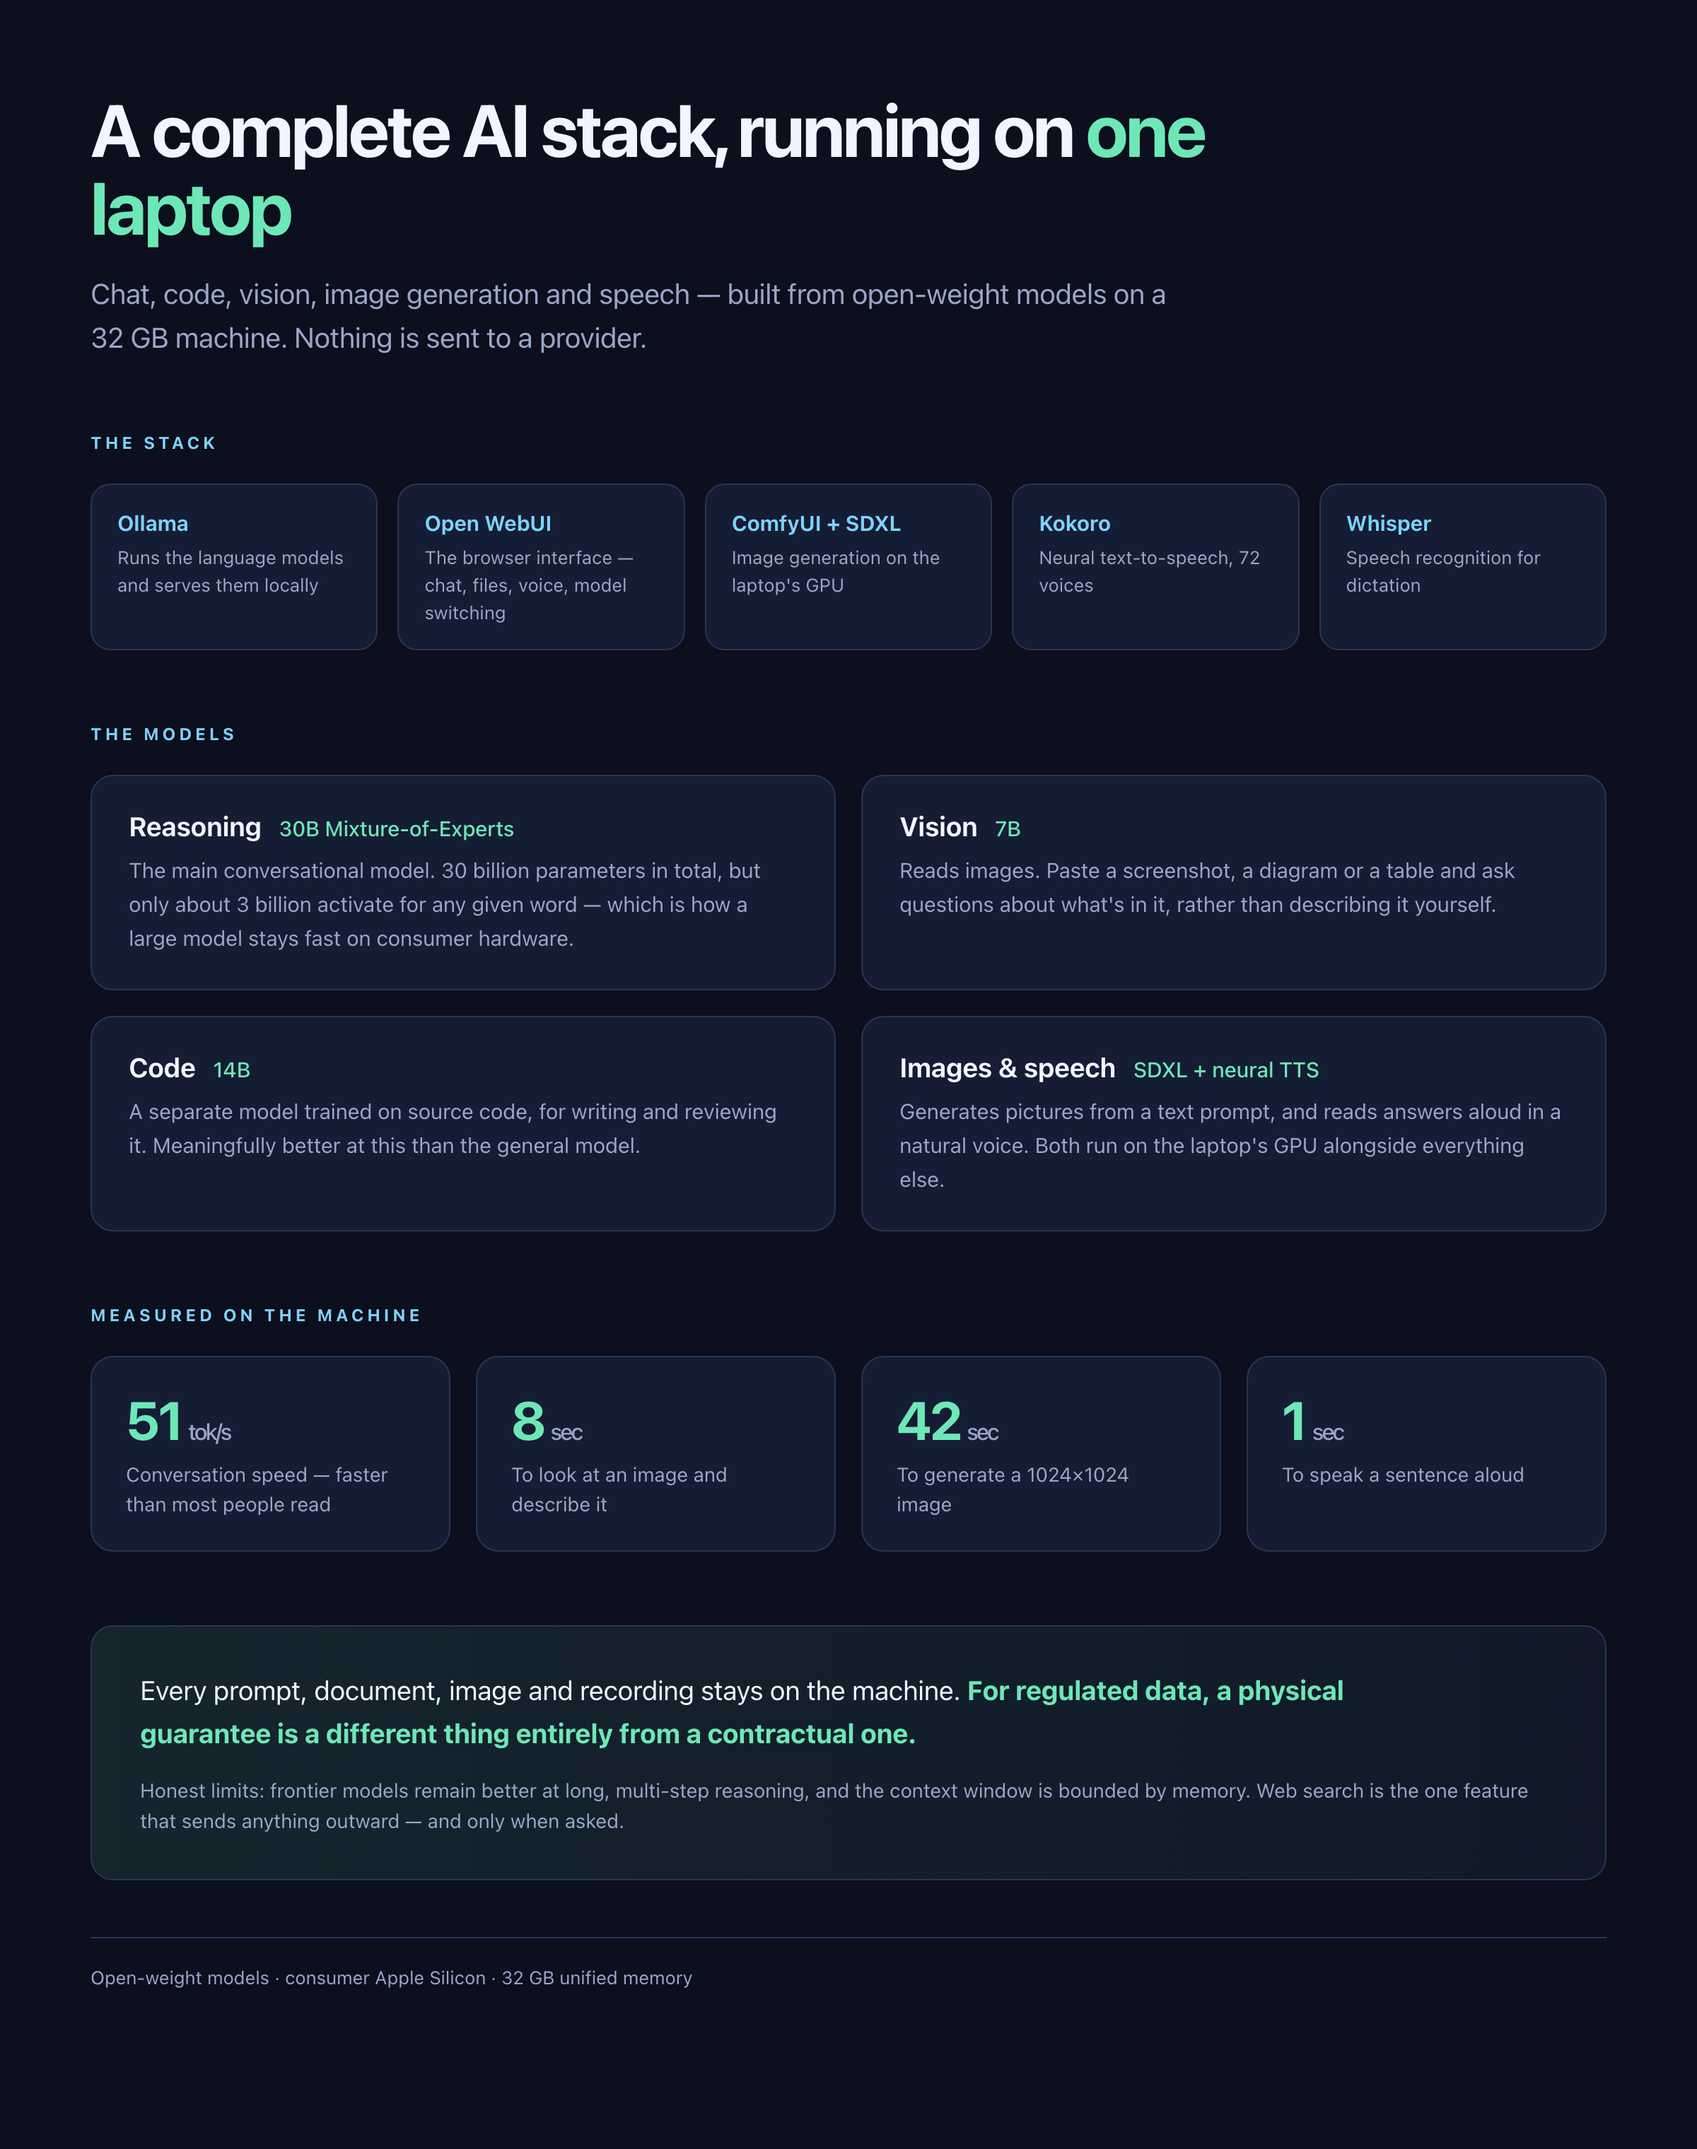
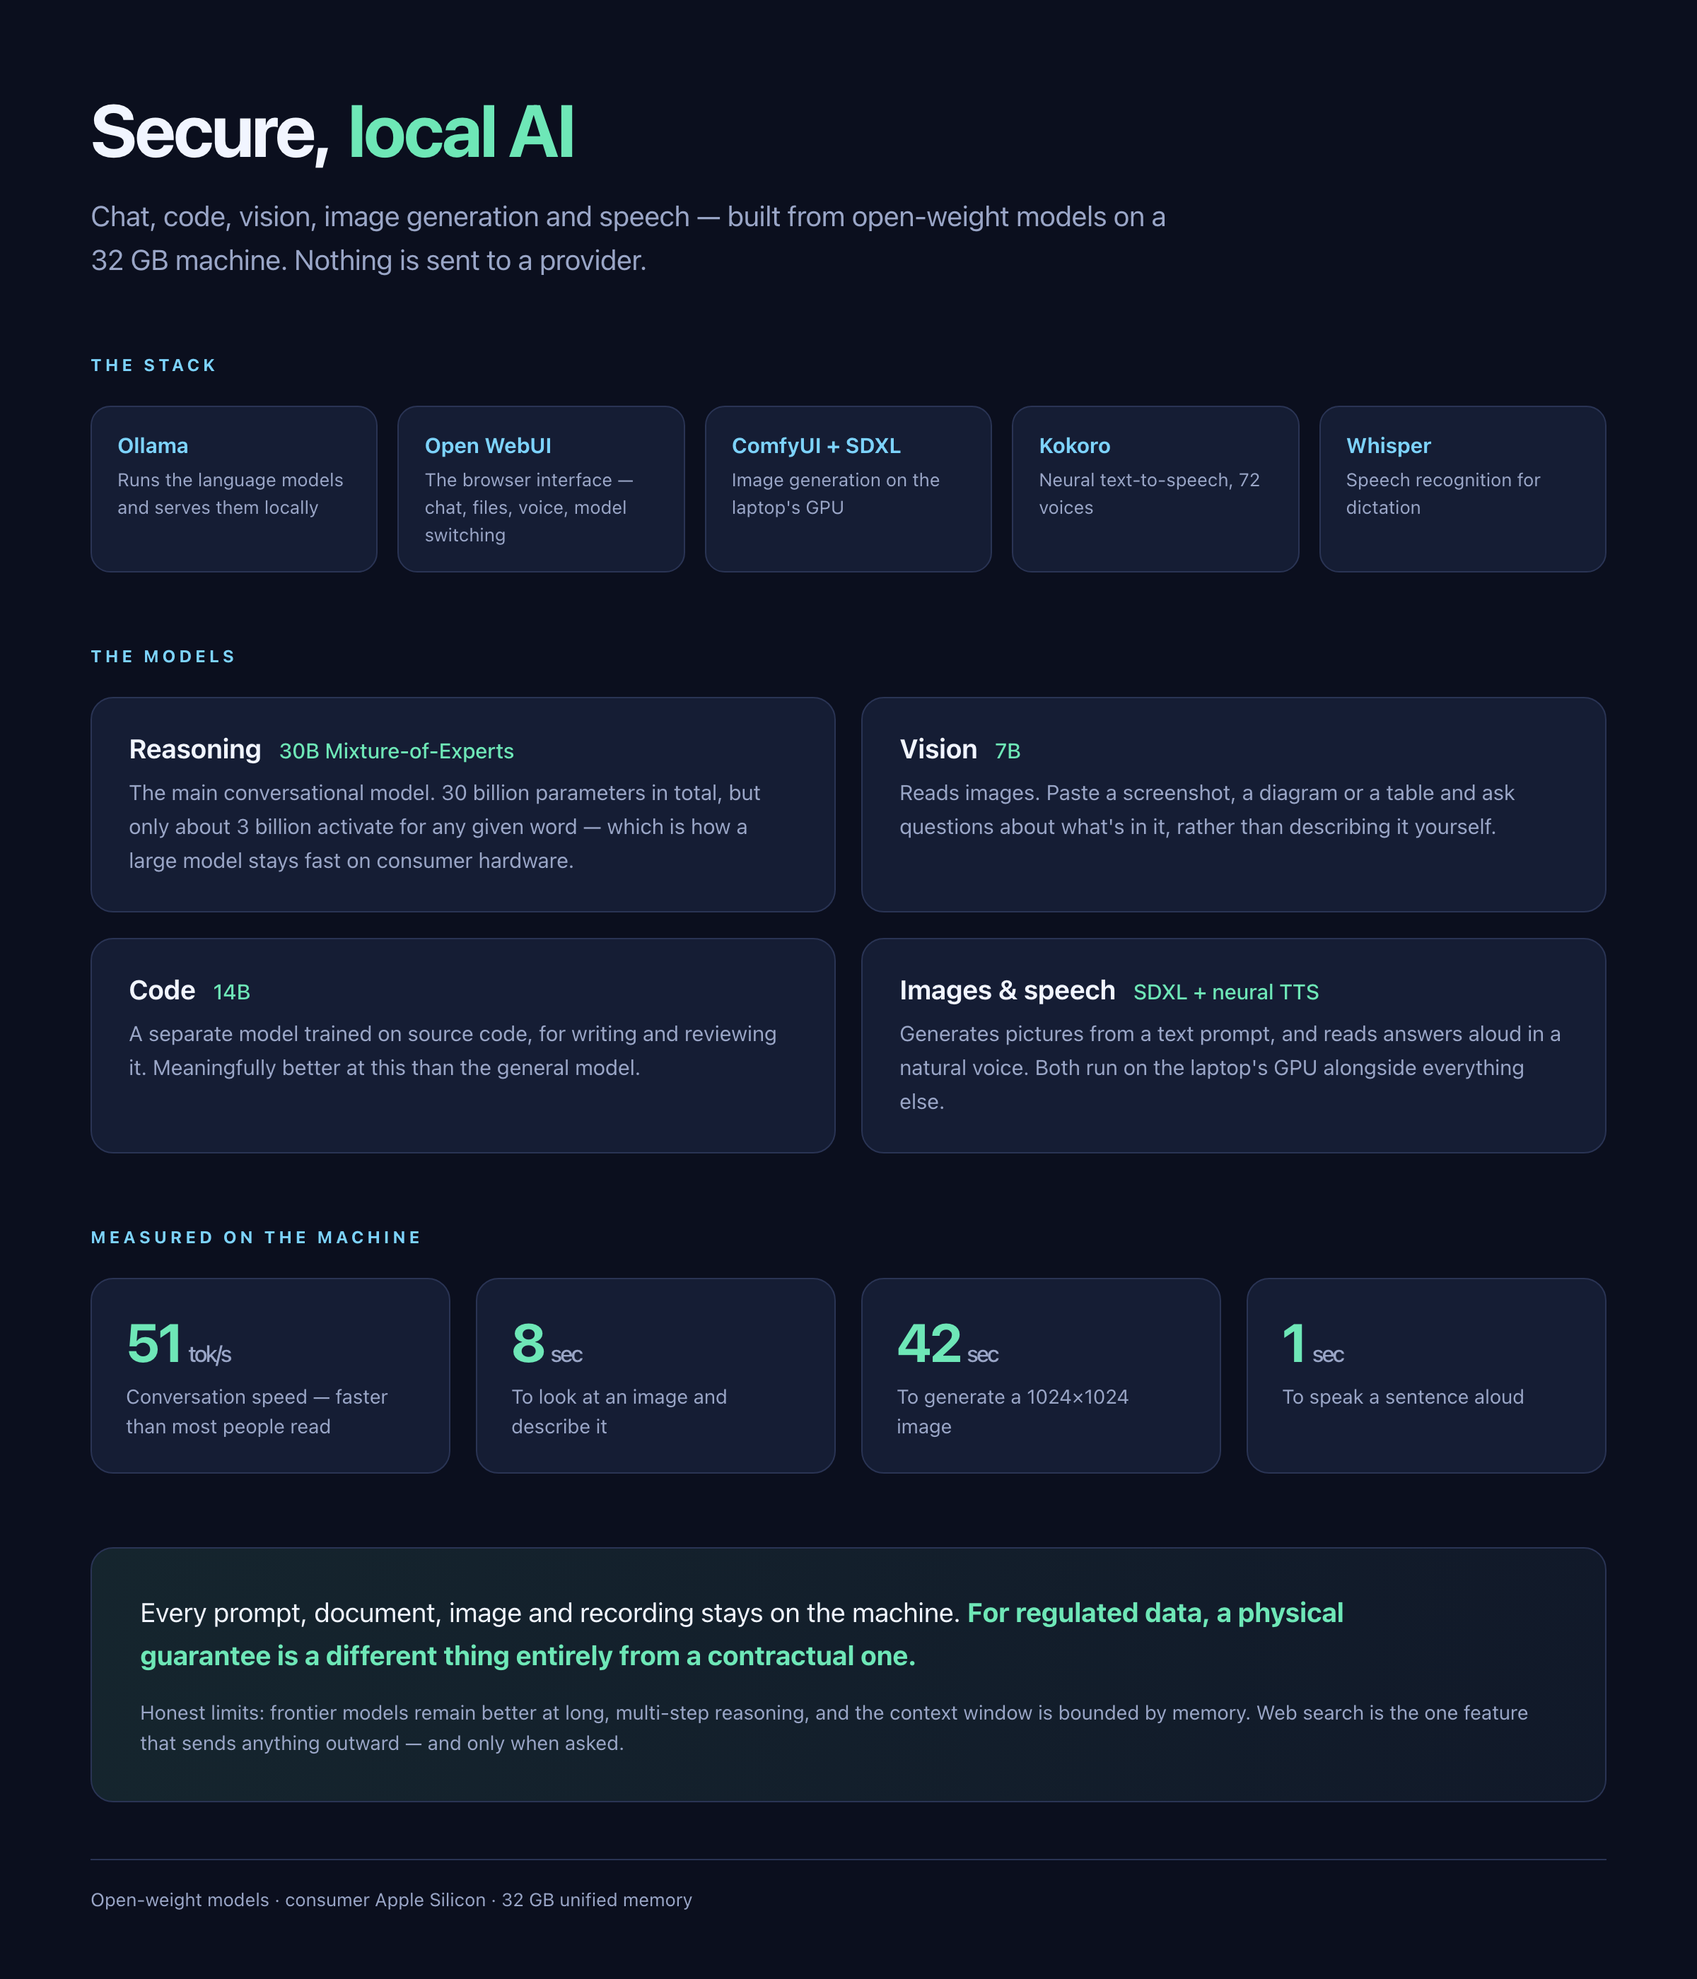
infographic: headline reads 'Secure, local AI'
Leads with the sovereignty framing rather than the hardware fact. Re-rendered
the PNG and trimmed the render height to fit the shorter one-line headline.

diff --git a/docs/infographic.html b/docs/infographic.html
@@ -3,7 +3,7 @@
 <head>
 <meta charset="utf-8">
 <meta name="viewport" content="width=device-width, initial-scale=1">
-<title>A Local AI Stack</title>
+<title>Secure, Local AI</title>
 <style>
   :root{
     --bg:#0b0f1e; --panel:#151d34; --line:#2a3454;
@@ -16,7 +16,7 @@
   .wrap{width:1200px;margin:0 auto;padding:64px 64px 48px}
 
   h1{margin:0;font-size:52px;letter-spacing:-1.8px;line-height:1.06;max-width:900px}
-  h1 span{color:var(--accent)}
+  h1 span{color:var(--accent);padding-left:.14em}
   .sub{margin-top:18px;color:var(--dim);font-size:20px;line-height:1.55;max-width:780px}
 
   h2{font-size:12px;letter-spacing:2.4px;text-transform:uppercase;color:var(--accent2);
@@ -53,7 +53,7 @@
 <body>
 <div class="wrap">
 
-  <h1>A complete AI stack, running on <span>one laptop</span></h1>
+  <h1>Secure, <span>local AI</span></h1>
   <div class="sub">Chat, code, vision, image generation and speech — built from open-weight
     models on a 32 GB machine. Nothing is sent to a provider.</div>
 
